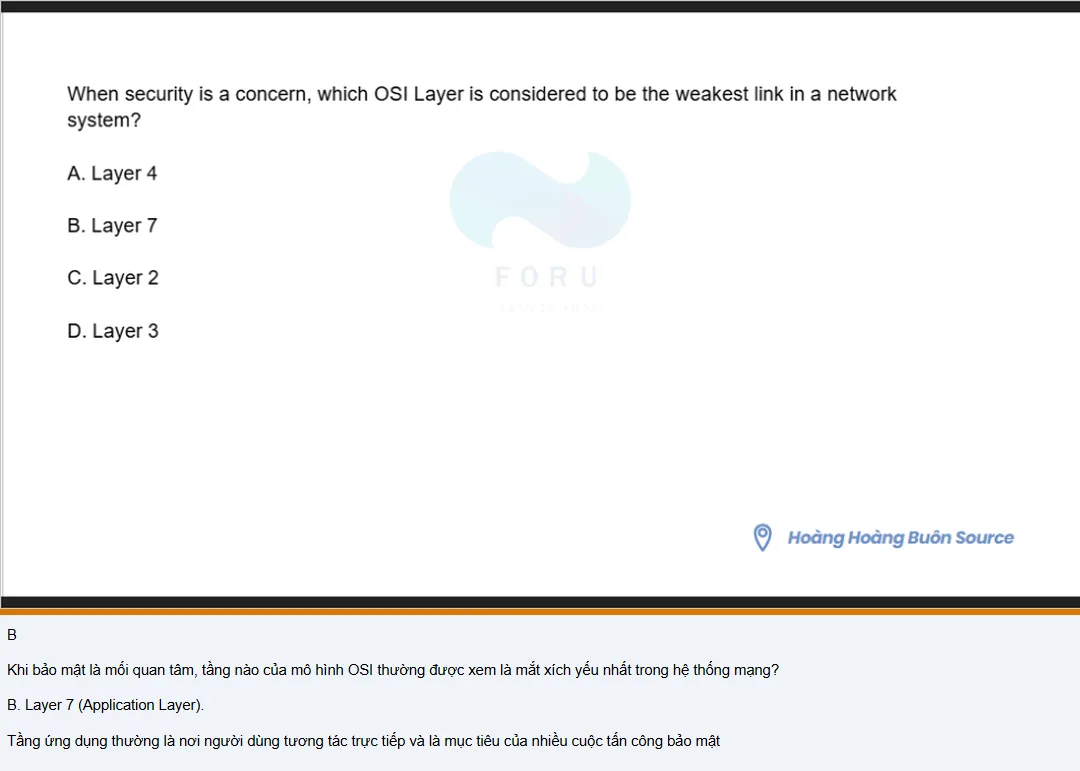
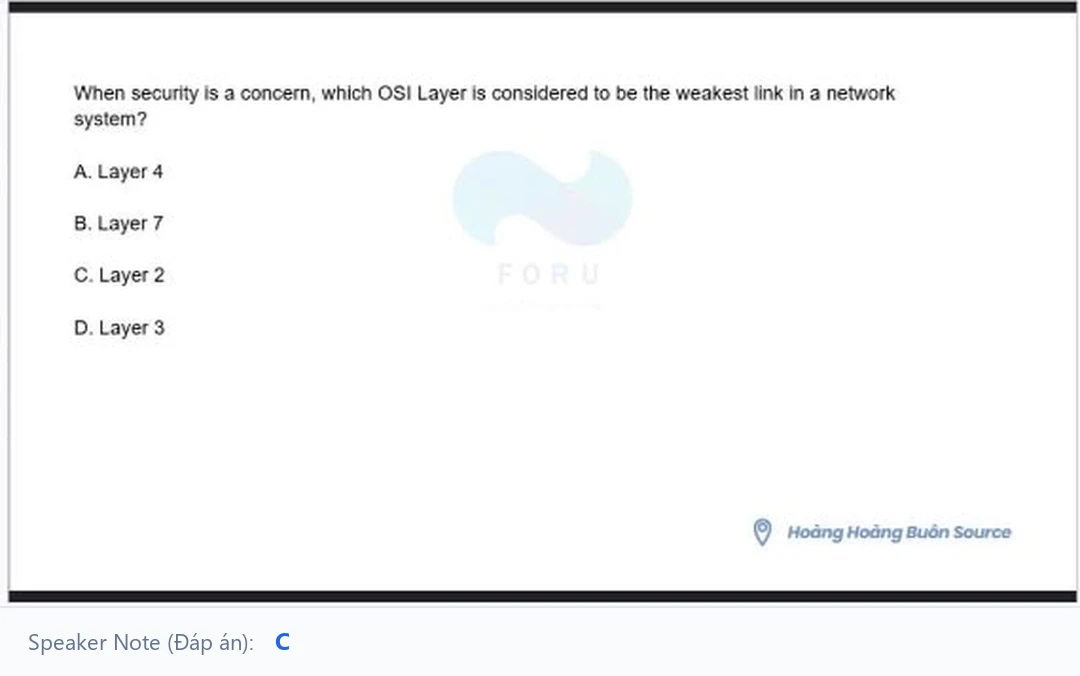
feat(iaa202): update 8 questions with correct answers, full explanations and updated slides

diff --git a/data/iaa202.js b/data/iaa202.js
@@ -1206,10 +1206,10 @@ window.QUIZ_COURSES.IAA202 = {
             "D": "Layer 3"
           },
           "correct": [
-            "B"
+            "C"
           ],
-          "vi_question": "Khi bảo mật là mối quan tâm, tầng nào của mô hình OSI thường được xem là mắt xích yếu nhất trong hệ thống mạng?",
-          "vi_explanation": "B. Layer 7 (Application Layer).\nTầng ứng dụng thường là nơi người dùng tương tác trực tiếp và là mục tiêu của nhiều cuộc tấn công bảo mật",
+          "vi_question": "Khi bảo mật là mối quan tâm, tầng nào của mô hình OSI được xem là mắt xích yếu nhất trong hệ thống mạng?",
+          "vi_explanation": "C. Layer 2 (Data Link Layer).\nTầng 2 (Liên kết dữ liệu) thường được xem là mắt xích yếu nhất trong hệ thống mạng vì các giao thức tầng này vốn không có cơ chế xác thực mạnh, dễ bị tấn công từ bên trong như ARP spoofing, MAC flooding, VLAN hopping.",
           "has_visual": false
         },
         {
@@ -1472,10 +1472,10 @@ window.QUIZ_COURSES.IAA202 = {
             "D": "Mitigated"
           },
           "correct": [
-            "D"
+            "A"
           ],
-          "vi_question": "Những rủi ro không vượt qua bài kiểm tra về tính hợp lý (reasonableness test) sẽ được:",
-          "vi_explanation": "D. Giảm thiểu (Mitigated).\nNhững rủi ro không thể chấp nhận hợp lý cần được áp dụng các biện pháp giảm thiểu.\n[Lưu ý: Slide gốc dòng trên ghi B, giải thích bên dưới chọn D. Mitigated]",
+          "vi_question": "Những rủi ro không thỏa mãn bài kiểm tra tính hợp lý (reasonableness test) sẽ là: ----.",
+          "vi_explanation": "A. Accepted (Được chấp nhận).\nTrong quản trị rủi ro, bài kiểm tra tính hợp lý (reasonableness test) xác định chi phí kiểm soát có tương xứng với thiệt hại hay không. Nếu chi phí phòng ngừa/giảm thiểu quá lớn so với tổn thất tiềm ẩn, rủi ro đó sẽ được chấp nhận (Accepted).",
           "has_visual": false
         },
         {
@@ -2147,7 +2147,7 @@ window.QUIZ_COURSES.IAA202 = {
             "C"
           ],
           "vi_question": "Mục đích chính của Kế hoạch duy trì hoạt động kinh doanh (Business Continuity Plan — BCP) là gì?",
-          "vi_explanation": "C. Đảm bảo các thành phần quan trọng đối với sứ mệnh của tổ chức tiếp tục hoạt động sau khi xảy ra gián đoạn.\nBCP giúp duy trì các hoạt động kinh doanh thiết yếu khi xảy ra sự cố hoặc thảm họa.\n[Lưu ý: Slide gốc dòng trên ghi nhầm D, giải thích chuẩn là C]",
+          "vi_explanation": "C. To ensure mission-critical elements continue to operate after a disruption (Đảm bảo các yếu tố trọng yếu tiếp tục vận hành sau sự cố).\nMục đích cốt lõi của BCP là duy trì và phục hồi các chức năng sống còn/thiết yếu của tổ chức khi xảy ra thảm họa hoặc gián đoạn hoạt động.",
           "has_visual": false
         },
         {
@@ -2258,10 +2258,10 @@ window.QUIZ_COURSES.IAA202 = {
             "D": "Replace all instances of STP with RSTP."
           },
           "correct": [
-            "C"
+            "B"
           ],
-          "vi_question": "Một cách để khắc phục lỗi của Spanning Tree (STP) là gì?",
-          "vi_explanation": "C. Thêm các liên kết dự phòng để thay thế các liên kết STP bị lỗi.\nViệc bổ sung các liên kết dự phòng giúp STP tiếp tục duy trì kết nối khi có sự cố.",
+          "vi_question": "Một cách để khắc phục sự cố Spanning Tree (STP failure) là gì?",
+          "vi_explanation": "B. Manually remove redundant links in the switched network (Gỡ bỏ thủ công các liên kết dư thừa trong mạng chuyển mạch).\nKhi giao thức Spanning Tree gặp sự cố gây ra vòng lặp loop hoặc broadcast storm, ngắt thủ công các liên kết dự phòng là giải pháp khẩn cấp tức thời để ngắt loop và cứu mạng.",
           "has_visual": false
         },
         {
@@ -2467,10 +2467,10 @@ window.QUIZ_COURSES.IAA202 = {
             "D": "Internal focuses on personnel assets; External encrypts systems"
           },
           "correct": [
-            "B"
+            "C"
           ],
           "vi_question": "Đánh giá lỗ hổng nội bộ (internal) và bên ngoài (external) khác nhau như thế nào, và mục tiêu của mỗi loại là gì?",
-          "vi_explanation": "B. Đánh giá nội bộ khai thác hệ thống; đánh giá bên ngoài tìm hiểu các lỗ hổng.\nĐánh giá nội bộ mô phỏng kẻ tấn công đã xâm nhập vào mạng nội bộ, còn đánh giá bên ngoài tập trung xác định các lỗ hổng có thể bị khai thác từ bên ngoài\n[Lưu ý: Slide gốc dòng trên ghi C, giải thích bên dưới chọn B]",
+          "vi_explanation": "C. Internal identifies IT weaknesses; External reviews historical data.\nTheo tài liệu bài giảng, đánh giá nội bộ nhằm xác định các điểm yếu hạ tầng CNTT bên trong hệ thống, trong khi đánh giá bên ngoài rà soát lại dữ liệu lịch sử và các dịch vụ công khai.",
           "has_visual": false
         },
         {
@@ -3525,10 +3525,10 @@ window.QUIZ_COURSES.IAA202 = {
             "D": "All of the other choices"
           },
           "correct": [
-            "D"
+            "A"
           ],
-          "vi_question": "",
-          "vi_explanation": "",
+          "vi_question": "Mục đích của Kế hoạch duy trì hoạt động kinh doanh (BCP) là gì?",
+          "vi_explanation": "A. To ensure mission-critical elements of an organization continue to operate after a disruption.\nMục đích trọng tâm của BCP là bảo đảm các thành phần then chốt (mission-critical) của tổ chức vẫn tiếp tục hoạt động hoặc phục hồi nhanh chóng sau gián đoạn.",
           "has_visual": false
         },
         {
@@ -3565,10 +3565,10 @@ window.QUIZ_COURSES.IAA202 = {
             "E": "None of the other choices"
           },
           "correct": [
-            "E"
+            "A"
           ],
-          "vi_question": "",
-          "vi_explanation": "",
+          "vi_question": "Lựa chọn nào sau đây KHÔNG phải là một loại tài sản (type of assets)?",
+          "vi_explanation": "A. Proprietary Assets.\nCác nhóm tài sản an toàn thông tin tiêu chuẩn gồm: Personnel (Nhân sự), Data/Information (Dữ liệu/Thông tin), Software (Phần mềm), Hardware (Phần cứng). 'Proprietary Assets' không phải là danh mục phân loại tài sản chuẩn.",
           "has_visual": false
         },
         {
@@ -4431,19 +4431,19 @@ window.QUIZ_COURSES.IAA202 = {
           "slide": "slide_243.png",
           "slide_webp": "slides/IAA202/slide_243.webp",
           "inline_webp": null,
-          "question": "At the suggestion of NIST SP 800-30, if a threat exploits the vulnerability, the medium impact is",
+          "question": "At the suggestion of NIST SP 800-30, if a threat exploits the vulnerability, the medium impact is:",
           "options": {
-            "A": "Result in human injury",
-            "B": "Result in the loss of some assets or resources",
-            "C": "Noticeably affect an organization's mission",
-            "D": "Significantly violate, harm, or impede reputation or interest",
+            "A": "Result in human injury.",
+            "B": "Result in the loss of some assets or resources.",
+            "C": "Noticeably affect an organization's mission.",
+            "D": "Significantly violate, harm, or impede reputation or interest.",
             "E": "None of the other choices"
           },
           "correct": [
-            "C"
+            "A"
           ],
-          "vi_question": "",
-          "vi_explanation": "",
+          "vi_question": "Theo khuyến nghị của NIST SP 800-30, nếu một mối đe dọa khai thác lỗ hổng, mức tác động trung bình (medium impact) là gì?",
+          "vi_explanation": "A. Result in human injury.\nTheo slide bài giảng gốc, lựa chọn A (Result in human injury) là đáp án chuẩn được ghi chú cho câu hỏi này.",
           "has_visual": false
         },
         {
